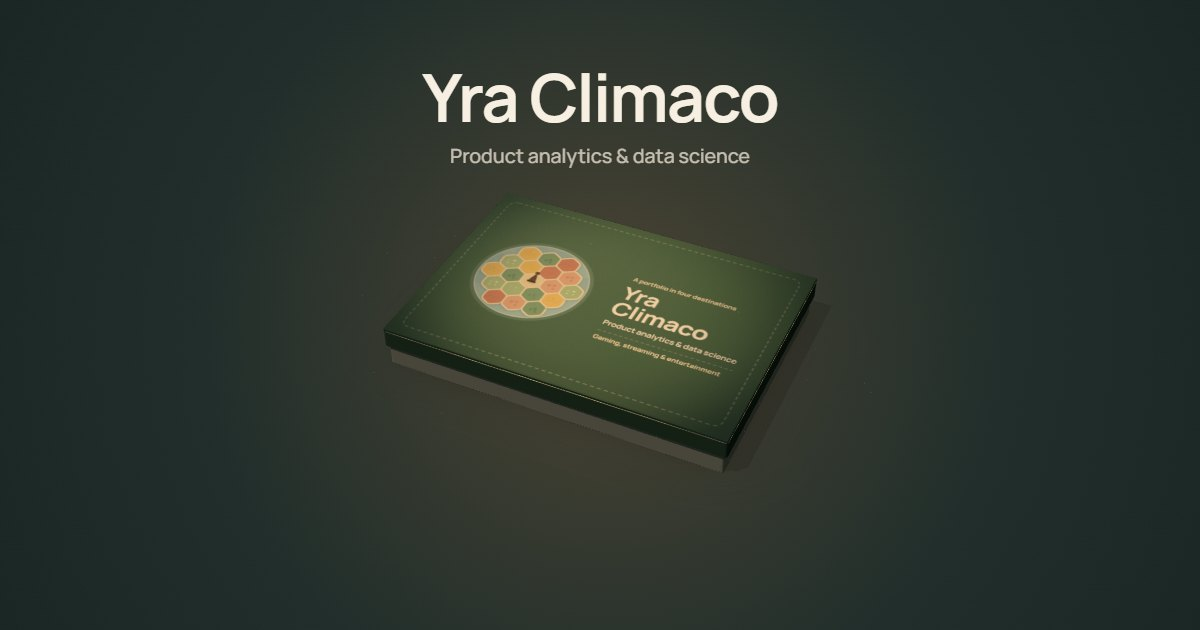
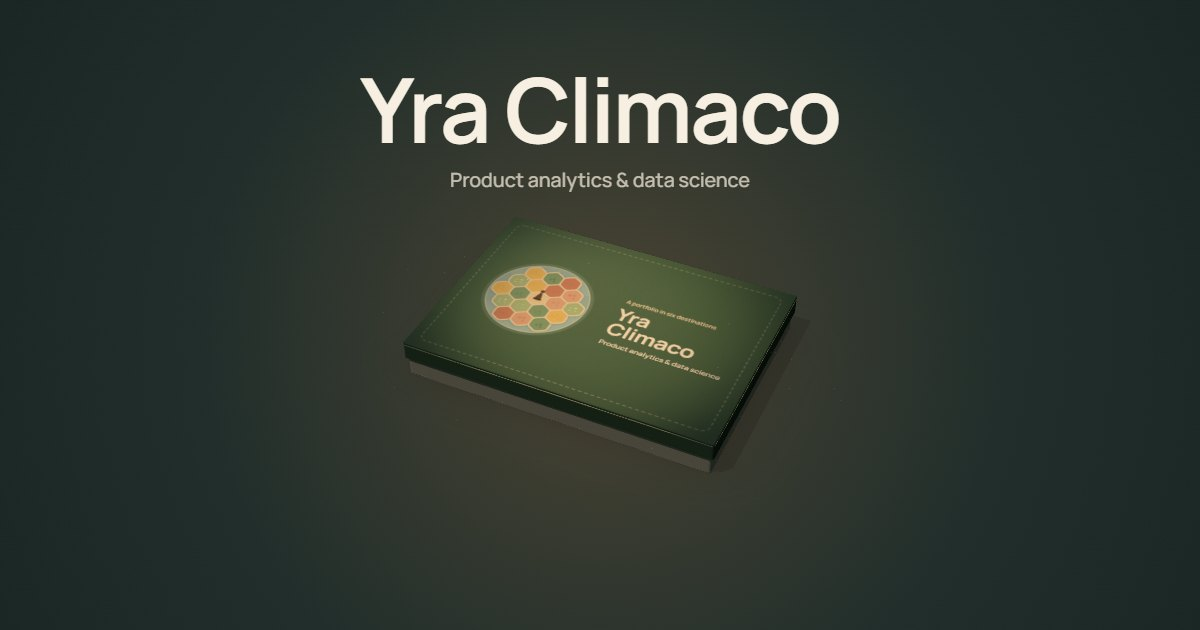
Update the box lid: six destinations, no audience line
- Lid reads "A portfolio in six destinations"; the gaming, streaming and
  entertainment line and its divider are removed, title block re-centred
- Same change on the printed fallback box
- Refresh the social preview image to show the new lid

Changed region(s): [[0.3083, 0.3317, 0.6783, 0.754], [0.2775, 0.1206, 0.7092, 0.3016]]

diff --git a/src/three/textures.js b/src/three/textures.js
@@ -165,8 +165,8 @@ export function drawLid(w, h) {
   // Landscape: art on the left, title on the right. Portrait: art above, title centred below.
   const portrait = h > w
   const L = portrait
-    ? { ax: w * 0.5, ay: u * 49, as: u * 5.6, tx: w * 0.5, align: 'center', maxW: u * 84, k: 1.45, y0: u * 88, oneLine: true }
-    : { ax: w * 0.27, ay: h * 0.5, as: u * 3.6, tx: w * 0.53, align: 'left', maxW: w * 0.39, k: 1, y0: h * 0.33, oneLine: false }
+    ? { ax: w * 0.5, ay: u * 49, as: u * 5.6, tx: w * 0.5, align: 'center', maxW: u * 84, k: 1.45, y0: u * 92.6, oneLine: true }
+    : { ax: w * 0.27, ay: h * 0.5, as: u * 3.6, tx: w * 0.53, align: 'left', maxW: w * 0.39, k: 1, y0: h * 0.365, oneLine: false }
 
   // Artwork: the island in a sea medallion.
   const { ax, ay, as } = L
@@ -205,7 +205,7 @@ export function drawLid(w, h) {
   }
   ctx.textBaseline = 'alphabetic'
   ctx.textAlign = L.align
-  line('A portfolio in four destinations', 600, u * 2.15, tx, y0, '#fbf0d2')
+  line('A portfolio in six destinations', 600, u * 2.15, tx, y0, '#fbf0d2')
 
   const nx = portrait ? tx : tx - u * 0.3
   ctx.save()
@@ -221,19 +221,6 @@ export function drawLid(w, h) {
 
   const shift = L.oneLine ? -7.2 : 0
   line(profile.focus, 600, u * 2.6, tx, at(20.6 + shift), '#fdf8ee')
-
-  ctx.save()
-  ctx.strokeStyle = 'rgb(253 248 238 / 0.32)'
-  ctx.lineWidth = u * 0.28
-  ctx.setLineDash([u * 0.9, u * 0.7])
-  ctx.beginPath()
-  const [d0, d1] = portrait ? [w * 0.25, w * 0.75] : [tx, w - u * 8]
-  ctx.moveTo(d0, at(23.4 + shift))
-  ctx.lineTo(d1, at(23.4 + shift))
-  ctx.stroke()
-  ctx.restore()
-
-  line(profile.audienceLine, 600, u * 2.15, tx, at(26.9 + shift), '#fbf0d2')
 
   grain(ctx, w, h, 0.09)
   return c

diff --git a/src/components/BoxFallback.jsx b/src/components/BoxFallback.jsx
@@ -142,12 +142,11 @@ export default function BoxFallback({ onOpened, reducedMotion }) {
             <div className="game-box__print">
               <LidArt />
               <div className="game-box__title-block">
-                <p className="game-box__kicker">A portfolio in four destinations</p>
+                <p className="game-box__kicker">A portfolio in six destinations</p>
                 <h1 id="box-title" className="game-box__title">
                   {profile.name}
                 </h1>
                 <p className="game-box__subtitle">{profile.focus}</p>
-                <p className="game-box__audience">{profile.audienceLine}</p>
               </div>
             </div>
           </div>

diff --git a/src/three/world.js b/src/three/world.js
@@ -431,7 +431,7 @@ export async function createWorld({
   const boxCorners = []
   for (const sx of [-1, 1]) for (const sz of [-1, 1]) for (const y of [0, LID_CLOSED_Y + LID.h]) boxCorners.push(new Vector3((sx * COVER.w) / 2, y, (sz * COVER.d) / 2))
   // Framing hulls: the whole island, or (on phones) the destinations ring with a generous margin,
-  // letting the outer ring run off the sides so the four destinations stay large.
+  // letting the outer ring run off the sides so the destinations stay large.
   const hull = (maxRing, radius) => {
     const pts = []
     for (const t of tiles) {
